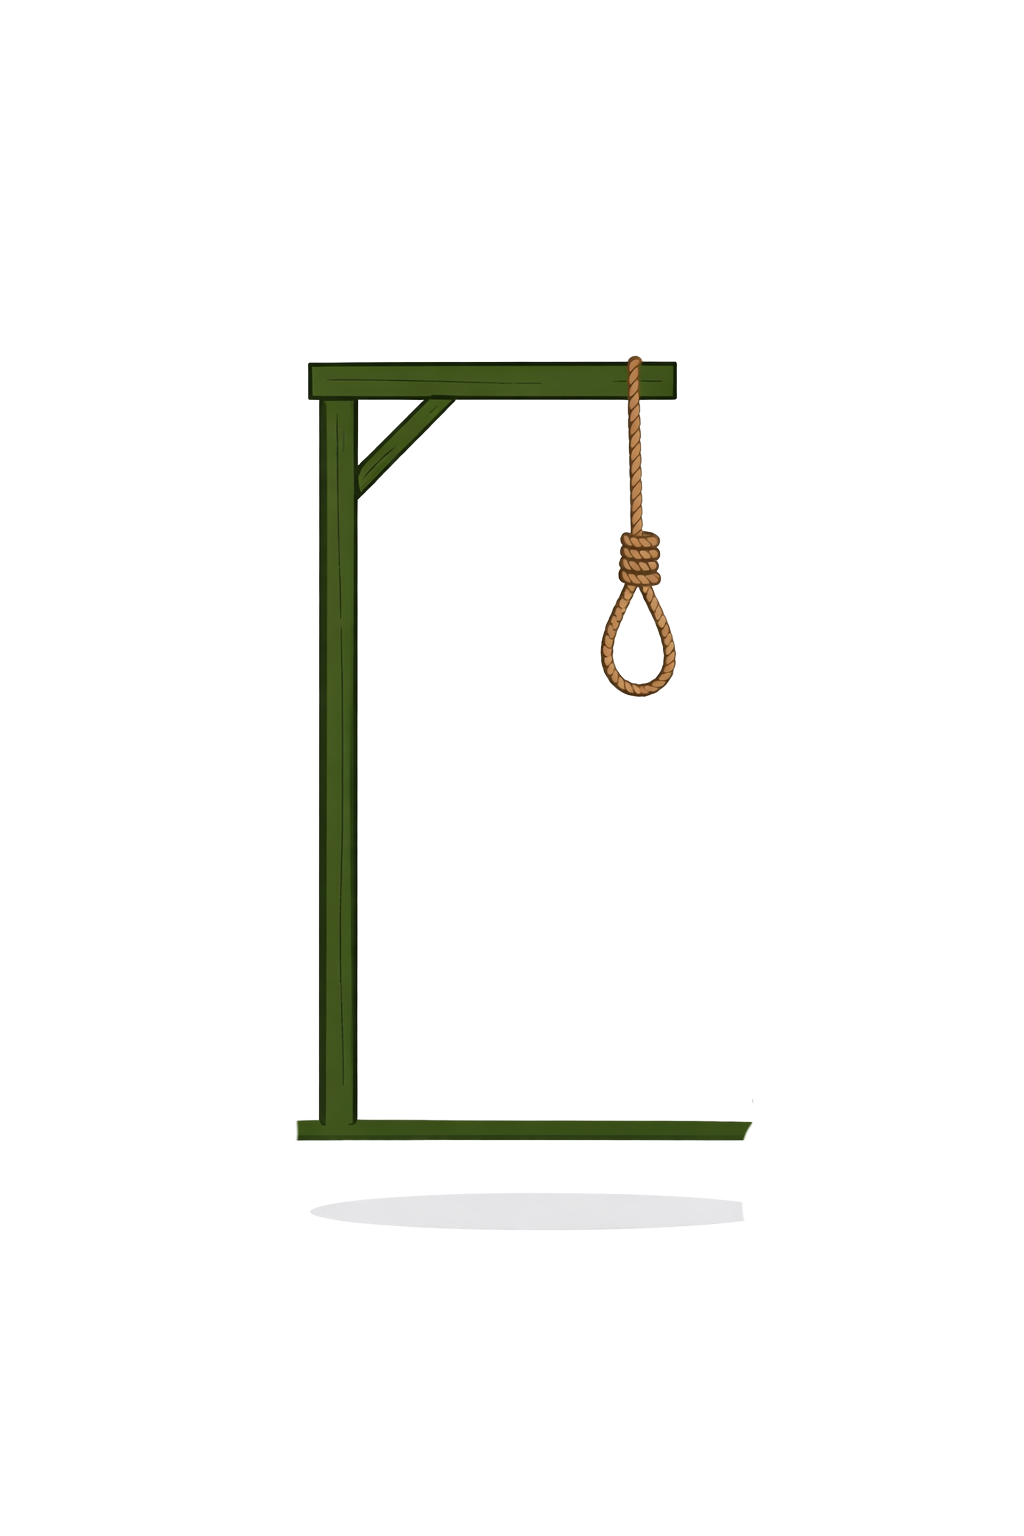
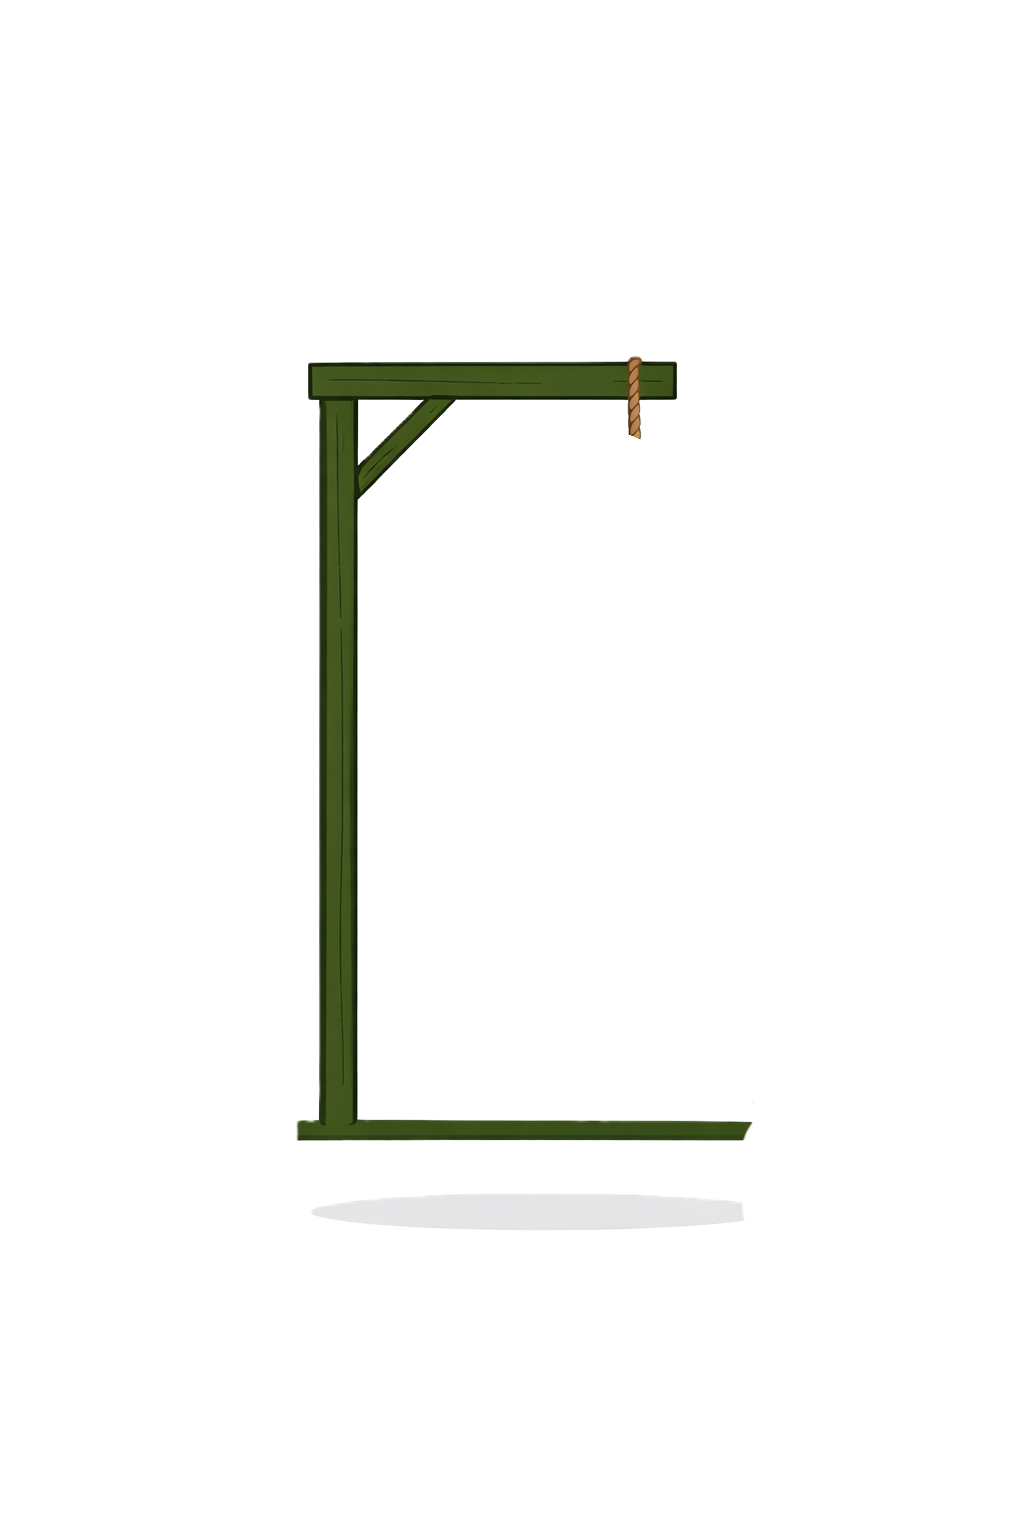
-

Changed region(s): [[0.5625, 0.2812, 0.6562, 0.4688]]

diff --git a/2_JS/JS6-ahorcado/styles/main.css b/2_JS/JS6-ahorcado/styles/main.css
@@ -122,43 +122,43 @@ header {
 }
 
 #cabeza {
-  left: 37.89%;
-  top: 42.32%;
+  left: 49.15%;
+  top: 18%;
   width: 28.71%;
   height: 19.14%;
 }
 
 #cuerpo {
-  left: 37.70%;
-  top: 39.32%;
+  left: 48.02%;
+  top: 36%;
   width: 30.96%;
   height: 22.33%;
 }
 
 #brazoIzq {
-  left: 44.14%;
-  top: 39.06%;
+  left: 28%;
+  top: 37%;
   width: 25.10%;
   height: 16.34%;
 }
 
 #brazoDer {
-  left: 51.76%;
-  top: 39.06%;
+  left: 74%;
+  top: 37%;
   width: 25.10%;
   height: 16.34%;
 }
 
 #piernaIzq {
-  left: 46.19%;
-  top: 40.04%;
+  left: 38.7%;
+  top: 56.5%;
   width: 24.80%;
   height: 20.25%;
 }
 
 #piernaDer {
-  left: 35.35%;
-  top: 40.69%;
+  left: 63.5%;
+  top: 56.5%;
   width: 24.80%;
   height: 20.25%;
 }
